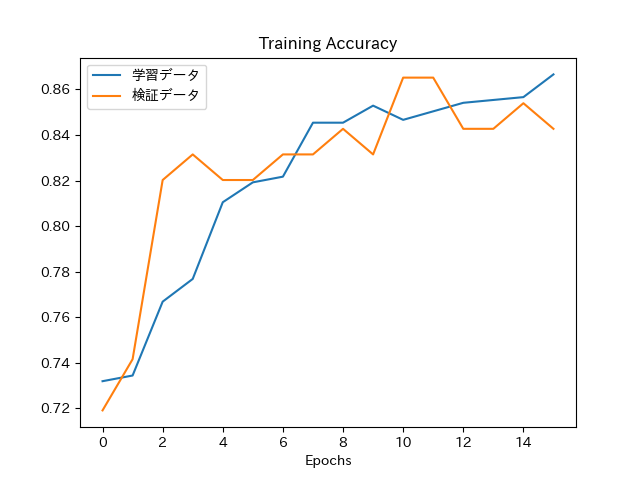
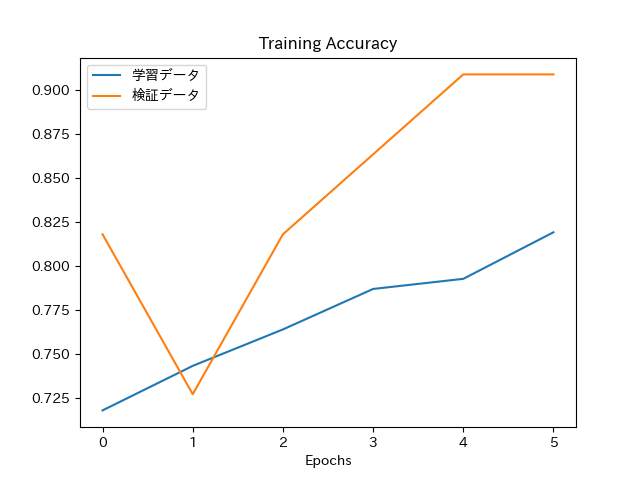
score 0.811

diff --git a/classification/main.py b/classification/main.py
@@ -81,7 +81,7 @@ X = df.drop(columns='Survived')
 y = df[['Survived']]
 
 
-kf = KFold(n_splits = 10)
+kf = KFold(n_splits = 40)
 
 for train_index, test_index in kf.split(X):
     X_train, X_test = X.iloc[train_index], X.iloc[test_index]
@@ -117,7 +117,7 @@ for train_index, test_index in kf.split(X):
     model.compile(loss = 'binary_crossentropy', optimizer = 'adam',  metrics = ['accuracy'])
 
     # 学習
-    fit = model.fit(X_train, y_train, epochs = 16, validation_data=(X_test, y_test), batch_size = 16, verbose = 2)
+    fit = model.fit(X_train, y_train, epochs = 6, validation_data=(X_test, y_test), batch_size = 16, verbose = 2)
 
     # 予測
     y_test_proba = model.predict(test)
@@ -152,3 +152,4 @@ plt.title('Training Loss')
 plt.xlabel('Epochs')
 plt.savefig("figure/Training Loss.png")
 plt.clf()
+print(f'k : {ent[0]} epoch : {ent[1]}')
